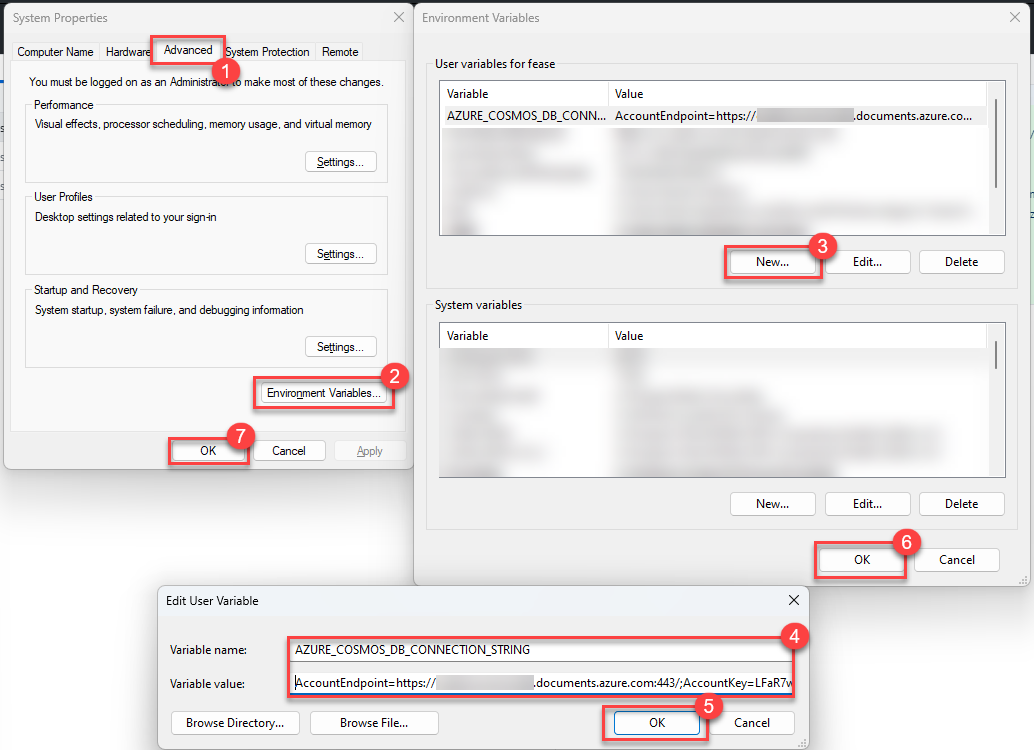
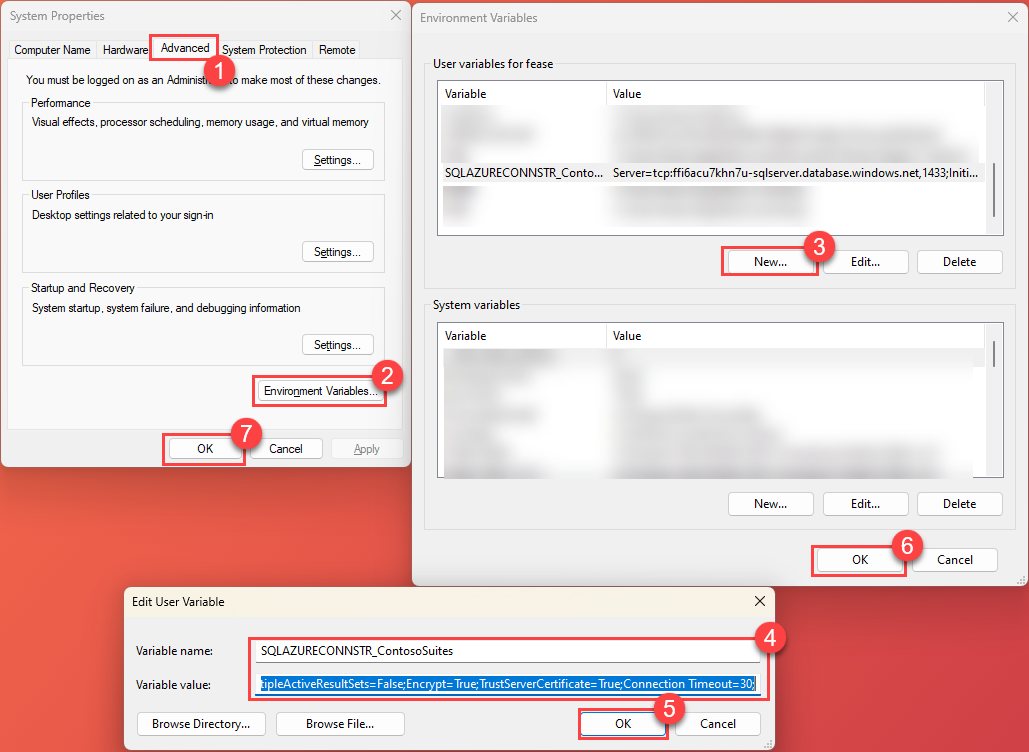
E2 updates

diff --git a/docs/02_implement_function_calls/0202.md b/docs/02_implement_function_calls/0202.md
@@ -19,7 +19,7 @@ In the prior task, you populated bookings history data in Azure SQL Database and
 
 The key tasks are as follows:
 
-1. Add three local secrets using `dotnet user-secrets`. They should be named `AzureOpenAI:DeploymentName`, `AzureOpenAI:Endpoint`, and `AzureOpenAI:ApiKey`, and these secret names are case-sensitive.
+1. Add three local secrets to the `src/ContosoSuitesWebAPI` project using `dotnet user-secrets`. They should be named `AzureOpenAI:DeploymentName`, `AzureOpenAI:Endpoint`, and `AzureOpenAI:ApiKey`, and these secret names are case-sensitive.
 
     <details markdown="block">
     <summary><strong>Expand this section to view the solution</strong></summary>
@@ -43,7 +43,7 @@ The key tasks are as follows:
     The code for the `GetBookingsMissingHotelRooms()` method is in the `DatabaseService` class as follows:
 
     ```csharp
-        public async Task<IEnumerable<Booking>> GetBookingsMissingHotelRooms()
+    public async Task<IEnumerable<Booking>> GetBookingsMissingHotelRooms()
         {
             var sql = """
                 SELECT
@@ -90,7 +90,7 @@ The key tasks are as follows:
     The code for the `GetBookingsWithMultipleHotelRooms()` method in the `DatabaseService` class is as follows:
   
     ```csharp
-        public async Task<IEnumerable<Booking>> GetBookingsWithMultipleHotelRooms()
+    public async Task<IEnumerable<Booking>> GetBookingsWithMultipleHotelRooms()
         {
             var sql = """
                 SELECT
@@ -138,7 +138,7 @@ The key tasks are as follows:
 
     ```csharp
     Task<IEnumerable<Booking>> GetBookingsMissingHotelRooms();
-    Task<IEnumerable<Booking>> GetBookingsWithMultipleHotelRooms();
+        Task<IEnumerable<Booking>> GetBookingsWithMultipleHotelRooms();
     ```
 
     </details>
@@ -171,7 +171,7 @@ The key tasks are as follows:
     Then, add `[KernelFunction]` and `[Description()]` descriptors to each of the five methods you want to be available for Semantic Kernel to call.   For example, the `GetHotels()` method   signature would look like:
 
     ```csharp
-        [KernelFunction]
+    [KernelFunction]
         [Description("Get all hotels.")]
         public async Task<IEnumerable<Hotel>> GetHotels()
     ```
@@ -179,7 +179,7 @@ The key tasks are as follows:
     For methods with parameters, include as well a `[Description()]` descriptor for each parameter. For example, the `GetBookingsForHotel()` method   would look like:
 
     ```csharp
-        [KernelFunction]
+    [KernelFunction]
         [Description("Get all bookings for a single hotel.")]
         public async Task<IEnumerable<Booking>> GetBookingsForHotel(
             [Description("The ID of the hotel")] int hotelId
@@ -296,7 +296,7 @@ The key tasks are as follows:
   
     2. Create three environment variables. The first is `AzureOpenAI__DeploymentName` and should have a value of `gpt-4o`. The second is   `AzureOpenAI__Endpoint` and should have a value of your Azure OpenAI endpoint URL. The third is `AzureOpenAI__ApiKey` and should have a value of   your Azure OpenAI API key. After entering data for an application setting, select **Apply** to save the setting.
   
-      ![Filling in details for the new environment variable for an Azure App Service](../../media/Solution/0201_AddEnvironmentVariable2.png)
+      ![Filling in details for the new environment variable for an Azure App Service](../../media/Solution/0202_AddEnvironmentVariable2.png)
   
     {: .note }
     > These environment variables should have **two** underscores between "AzureOpenAI" and the name.

diff --git a/docs/02_implement_function_calls/0201.md b/docs/02_implement_function_calls/0201.md
@@ -84,6 +84,7 @@ The key tasks are as follows:
     The completed code for the three Hotels endpoints in `Program.cs` are as follows:
 
     ```csharp
+    // Retrieve the set of hotels from the database.
     app.MapGet("/Hotels", async () => 
     {
         var hotels = await app.Services.GetRequiredService<IDatabaseService>().GetHotels();
@@ -92,6 +93,7 @@ The key tasks are as follows:
         .WithName("GetHotels")
         .WithOpenApi();
 
+    // Retrieve the bookings for a specific hotel.
     app.MapGet("/Hotels/{hotelId}/Bookings/", async (int hotelId) => 
     {
         var bookings = await app.Services.GetRequiredService<IDatabaseService>().GetBookingsForHotel(hotelId);
@@ -100,6 +102,7 @@ The key tasks are as follows:
         .WithName("GetBookingsForHotel")
         .WithOpenApi();
 
+    // Retrieve the bookings for a specific hotel that are after a specified date.
     app.MapGet("/Hotels/{hotelId}/Bookings/{min_date}", async (int hotelId, DateTime min_date) => 
     {
         var bookings = await app.Services.GetRequiredService<IDatabaseService>().GetBookingsByHotelAndMinimumDate(hotelId, min_date);
@@ -130,7 +133,7 @@ The key tasks are as follows:
     </details>
 
 6. Open the Streamlit application and navigate to the **API Integration** page. You should see a drop-down list asking you to select a hotel, followed by a table of bookings for that hotel.
-7. Deploy your App Service code changes and ensure they propagate to Azure App Services. Then, add a new connection string to the App Service's environment variables called `ContosoSuites`. The Value should be the value of your connection string and the Type should be **SQLAzure**. Azure App Services will automatically add the `SQLAZURECONNSTR_` so you should not add it yourself when creating this variable.
+7. Deploy your App Service code changes and ensure they propagate to Azure App Services. Then, add a new connection string to the App Service's environment variables called `ContosoSuites`. The Value should be the value of your connection string and the Type should be **SQLAzure**. Azure App Services will automatically add the `SQLAZURECONNSTR_` to the beginning of your environment variable, so you should not add it yourself when creating this variable.
 
     <details markdown="block">
     <summary><strong>Expand this section to view the solution</strong></summary>
